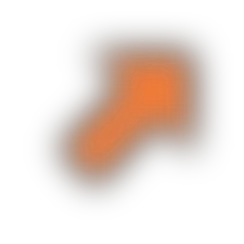
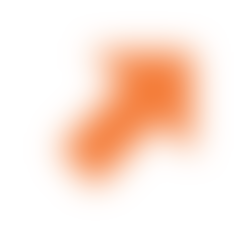
矢印のフチを消す

Changed region(s): [[0.2008, 0.1148, 0.8893, 0.8033]]

diff --git a/index.html b/index.html
@@ -21,8 +21,8 @@
   <link rel="preconnect" href="https://fonts.googleapis.com">
   <link rel="preconnect" href="https://fonts.gstatic.com" crossorigin>
   <link href="https://fonts.googleapis.com/css2?family=Jost:wght@400;500;600&family=Outfit:wght@500;600;700&family=Zen+Kurenaido&family=Shippori+Mincho+B1:wght@600;700;800&family=Zen+Kaku+Gothic+New:wght@400;500;700&display=swap" rel="stylesheet">
-  <link rel="stylesheet" href="tokens.css?v=20261011zzzF">
-  <link rel="stylesheet" href="style.css?v=20261011zzzF">
+  <link rel="stylesheet" href="tokens.css?v=20261011zzzG">
+  <link rel="stylesheet" href="style.css?v=20261011zzzG">
 </head>
 <body>
   <svg width="0" height="0" class="defs" aria-hidden="true">
@@ -34,7 +34,7 @@
   </svg>
 
   <div class="stage">
-    <div class="stage-bokeh" aria-hidden="true"><i class="sbk" style="--pad:5px;left:2%;top:3%;--w:34px;--c:#9cc3ea;--o:0.65;--b:0px;--r:-8deg;--t:15s"><img src="assets/img/ar/ar_34_9cc3ea_0.webp?v=3" alt="" decoding="async"></i><i class="sbk" style="--pad:35px;left:12%;top:8%;--w:56px;--c:#a9d0f3;--o:0.55;--b:11px;--r:-9deg;--t:13s"><img src="assets/img/ar/ar_56_a9d0f3_11.webp?v=3" alt="" decoding="async"></i><i class="sbk" style="--pad:20px;left:20%;top:2%;--w:28px;--c:#a9d0f3;--o:0.35;--b:6px;--r:3deg;--t:9s"><img src="assets/img/ar/ar_28_a9d0f3_6.webp?v=3" alt="" decoding="async"></i><i class="sbk" style="--pad:4px;left:6%;top:15%;--w:28px;--c:#a9d0f3;--o:0.65;--b:0px;--r:8deg;--t:9s"><img src="assets/img/ar/ar_28_a9d0f3_0.webp?v=3" alt="" decoding="async"></i><i class="sbk" style="--pad:20px;left:17%;top:18%;--w:28px;--c:#f47a36;--o:.2;--b:6px;--r:-9deg;--t:10s"><img src="assets/img/ar/ar_28_f47a36_6.webp?v=3" alt="" decoding="async"></i><i class="sbk" style="--pad:20px;left:3%;top:78%;--w:22px;--c:#f47a36;--o:.2;--b:6px;--r:3deg;--t:10s"><img src="assets/img/ar/ar_22_f47a36_6.webp?v=3" alt="" decoding="async"></i><i class="sbk" style="--pad:35px;left:14%;top:83%;--w:56px;--c:#a9d0f3;--o:0.55;--b:11px;--r:-5deg;--t:9s"><img src="assets/img/ar/ar_56_a9d0f3_11.webp?v=3" alt="" decoding="async"></i><i class="sbk" style="--pad:26px;left:21%;top:90%;--w:56px;--c:#f47a36;--o:.2;--b:8px;--r:-7deg;--t:13s"><img src="assets/img/ar/ar_56_f47a36_8.webp?v=3" alt="" decoding="async"></i><i class="sbk" style="--pad:35px;left:7%;top:93%;--w:70px;--c:#a9d0f3;--o:0.35;--b:11px;--r:-4deg;--t:12s"><img src="assets/img/ar/ar_70_a9d0f3_11.webp?v=3" alt="" decoding="async"></i><i class="sbk" style="--pad:26px;left:18%;top:76%;--w:70px;--c:#f47a36;--o:.2;--b:8px;--r:4deg;--t:13s"><img src="assets/img/ar/ar_70_f47a36_8.webp?v=3" alt="" decoding="async"></i><i class="sbk" style="--pad:8px;right:3%;top:4%;--w:44px;--c:#7fb0ee;--o:0.55;--b:2px;--r:-5deg;--t:14s"><img src="assets/img/ar/ar_44_7fb0ee_2.webp?v=3" alt="" decoding="async"></i><i class="sbk" style="--pad:35px;right:13%;top:2%;--w:84px;--c:#9cc3ea;--o:0.35;--b:11px;--r:-1deg;--t:13s"><img src="assets/img/ar/ar_84_9cc3ea_11.webp?v=3" alt="" decoding="async"></i><i class="sbk" style="--pad:14px;right:21%;top:9%;--w:44px;--c:#7fb0ee;--o:0.65;--b:4px;--r:9deg;--t:9s"><img src="assets/img/ar/ar_44_7fb0ee_4.webp?v=3" alt="" decoding="async"></i><i class="sbk" style="--pad:20px;right:8%;top:17%;--w:22px;--c:#f47a36;--o:.2;--b:6px;--r:0deg;--t:10s"><img src="assets/img/ar/ar_22_f47a36_6.webp?v=3" alt="" decoding="async"></i><i class="sbk" style="--pad:6px;right:19%;top:19%;--w:44px;--c:#a9d0f3;--o:0.35;--b:0px;--r:7deg;--t:13s"><img src="assets/img/ar/ar_44_a9d0f3_0.webp?v=3" alt="" decoding="async"></i><i class="sbk" style="--pad:35px;right:4%;top:80%;--w:84px;--c:#7fb0ee;--o:0.55;--b:11px;--r:1deg;--t:13s"><img src="assets/img/ar/ar_84_7fb0ee_11.webp?v=3" alt="" decoding="async"></i><i class="sbk" style="--pad:20px;right:15%;top:77%;--w:44px;--c:#f47a36;--o:.2;--b:6px;--r:-8deg;--t:11s"><img src="assets/img/ar/ar_44_f47a36_6.webp?v=3" alt="" decoding="async"></i><i class="sbk" style="--pad:14px;right:20%;top:88%;--w:44px;--c:#a9d0f3;--o:0.35;--b:4px;--r:10deg;--t:13s"><img src="assets/img/ar/ar_44_a9d0f3_4.webp?v=3" alt="" decoding="async"></i><i class="sbk" style="--pad:35px;right:9%;top:92%;--w:70px;--c:#a9d0f3;--o:0.55;--b:11px;--r:2deg;--t:14s"><img src="assets/img/ar/ar_70_a9d0f3_11.webp?v=3" alt="" decoding="async"></i></div>
+    <div class="stage-bokeh" aria-hidden="true"><i class="sbk" style="--pad:5px;left:2%;top:3%;--w:34px;--c:#9cc3ea;--o:0.65;--b:0px;--r:-8deg;--t:15s"><img src="assets/img/ar/ar_34_9cc3ea_0.webp?v=4" alt="" decoding="async"></i><i class="sbk" style="--pad:35px;left:12%;top:8%;--w:56px;--c:#a9d0f3;--o:0.55;--b:11px;--r:-9deg;--t:13s"><img src="assets/img/ar/ar_56_a9d0f3_11.webp?v=4" alt="" decoding="async"></i><i class="sbk" style="--pad:20px;left:20%;top:2%;--w:28px;--c:#a9d0f3;--o:0.35;--b:6px;--r:3deg;--t:9s"><img src="assets/img/ar/ar_28_a9d0f3_6.webp?v=4" alt="" decoding="async"></i><i class="sbk" style="--pad:4px;left:6%;top:15%;--w:28px;--c:#a9d0f3;--o:0.65;--b:0px;--r:8deg;--t:9s"><img src="assets/img/ar/ar_28_a9d0f3_0.webp?v=4" alt="" decoding="async"></i><i class="sbk" style="--pad:20px;left:17%;top:18%;--w:28px;--c:#f47a36;--o:.2;--b:6px;--r:-9deg;--t:10s"><img src="assets/img/ar/ar_28_f47a36_6.webp?v=4" alt="" decoding="async"></i><i class="sbk" style="--pad:20px;left:3%;top:78%;--w:22px;--c:#f47a36;--o:.2;--b:6px;--r:3deg;--t:10s"><img src="assets/img/ar/ar_22_f47a36_6.webp?v=4" alt="" decoding="async"></i><i class="sbk" style="--pad:35px;left:14%;top:83%;--w:56px;--c:#a9d0f3;--o:0.55;--b:11px;--r:-5deg;--t:9s"><img src="assets/img/ar/ar_56_a9d0f3_11.webp?v=4" alt="" decoding="async"></i><i class="sbk" style="--pad:26px;left:21%;top:90%;--w:56px;--c:#f47a36;--o:.2;--b:8px;--r:-7deg;--t:13s"><img src="assets/img/ar/ar_56_f47a36_8.webp?v=4" alt="" decoding="async"></i><i class="sbk" style="--pad:35px;left:7%;top:93%;--w:70px;--c:#a9d0f3;--o:0.35;--b:11px;--r:-4deg;--t:12s"><img src="assets/img/ar/ar_70_a9d0f3_11.webp?v=4" alt="" decoding="async"></i><i class="sbk" style="--pad:26px;left:18%;top:76%;--w:70px;--c:#f47a36;--o:.2;--b:8px;--r:4deg;--t:13s"><img src="assets/img/ar/ar_70_f47a36_8.webp?v=4" alt="" decoding="async"></i><i class="sbk" style="--pad:8px;right:3%;top:4%;--w:44px;--c:#7fb0ee;--o:0.55;--b:2px;--r:-5deg;--t:14s"><img src="assets/img/ar/ar_44_7fb0ee_2.webp?v=4" alt="" decoding="async"></i><i class="sbk" style="--pad:35px;right:13%;top:2%;--w:84px;--c:#9cc3ea;--o:0.35;--b:11px;--r:-1deg;--t:13s"><img src="assets/img/ar/ar_84_9cc3ea_11.webp?v=4" alt="" decoding="async"></i><i class="sbk" style="--pad:14px;right:21%;top:9%;--w:44px;--c:#7fb0ee;--o:0.65;--b:4px;--r:9deg;--t:9s"><img src="assets/img/ar/ar_44_7fb0ee_4.webp?v=4" alt="" decoding="async"></i><i class="sbk" style="--pad:20px;right:8%;top:17%;--w:22px;--c:#f47a36;--o:.2;--b:6px;--r:0deg;--t:10s"><img src="assets/img/ar/ar_22_f47a36_6.webp?v=4" alt="" decoding="async"></i><i class="sbk" style="--pad:6px;right:19%;top:19%;--w:44px;--c:#a9d0f3;--o:0.35;--b:0px;--r:7deg;--t:13s"><img src="assets/img/ar/ar_44_a9d0f3_0.webp?v=4" alt="" decoding="async"></i><i class="sbk" style="--pad:35px;right:4%;top:80%;--w:84px;--c:#7fb0ee;--o:0.55;--b:11px;--r:1deg;--t:13s"><img src="assets/img/ar/ar_84_7fb0ee_11.webp?v=4" alt="" decoding="async"></i><i class="sbk" style="--pad:20px;right:15%;top:77%;--w:44px;--c:#f47a36;--o:.2;--b:6px;--r:-8deg;--t:11s"><img src="assets/img/ar/ar_44_f47a36_6.webp?v=4" alt="" decoding="async"></i><i class="sbk" style="--pad:14px;right:20%;top:88%;--w:44px;--c:#a9d0f3;--o:0.35;--b:4px;--r:10deg;--t:13s"><img src="assets/img/ar/ar_44_a9d0f3_4.webp?v=4" alt="" decoding="async"></i><i class="sbk" style="--pad:35px;right:9%;top:92%;--w:70px;--c:#a9d0f3;--o:0.55;--b:11px;--r:2deg;--t:14s"><img src="assets/img/ar/ar_70_a9d0f3_11.webp?v=4" alt="" decoding="async"></i></div>
     <aside class="rail rail--left" aria-hidden="true">
       <p class="rail__vert">INSPIRE — RECRUITING SITE</p>
       <div class="rail-logo">
@@ -62,22 +62,22 @@
 
         <section class="page page--hero" id="top" data-tone="dark" data-label="TOP">
           <h1 class="vh">INSPIRE株式会社 児童指導員・児童発達支援管理責任者 採用サイト</h1>
-          <video class="hero__video" src="assets/hero.mp4?v=20261011zzzF" poster="assets/hero-poster.jpg?v=20261011zzzF" autoplay muted loop playsinline></video>
+          <video class="hero__video" src="assets/hero.mp4?v=20261011zzzG" poster="assets/hero-poster.jpg?v=20261011zzzG" autoplay muted loop playsinline></video>
           <p class="hero__swipe" aria-hidden="true"><span>SWIPE UP</span><svg><use href="#ar"/></svg></p>
         </section>
 
         <section class="page page--fv" id="p1" data-delay="250" data-tone="light" data-label="CONCEPT" data-next="共感">
-          <div class="bokeh bokeh--ar" aria-hidden="true"><i class="bka" style="--pad:14px;left:-10px;top:15.8%;--w:64px;--c:#a9d0f3;--o:0.95;--b:4px;--r:-6deg;--t:9s;--d:0ms"><img src="assets/img/ar/ar_64_a9d0f3_4.webp?v=3" alt="" decoding="async"></i><i class="bka" style="--pad:4px;left:150px;top:15%;--w:32px;--c:#7fb0ee;--o:1.00;--b:0px;--r:6deg;--t:8s;--d:70ms"><img src="assets/img/ar/ar_32_7fb0ee_0.webp?v=3" alt="" decoding="async"></i><i class="bka" style="--pad:11px;left:172px;top:21.5%;--w:48px;--c:#a9d0f3;--o:0.85;--b:3px;--r:-4deg;--t:10s;--d:140ms"><img src="assets/img/ar/ar_48_a9d0f3_3.webp?v=3" alt="" decoding="async"></i><i class="bka" style="--pad:17px;right:-34px;top:31%;--w:59px;--c:#a9d0f3;--o:0.90;--b:5px;--r:4deg;--t:11s;--d:45ms"><img src="assets/img/ar/ar_59_a9d0f3_5.webp?v=3" alt="" decoding="async"></i><i class="bka" style="--pad:5px;right:20px;top:49.7%;--w:37px;--c:#7fb0ee;--o:0.95;--b:1px;--r:-6deg;--t:8s;--d:210ms"><img src="assets/img/ar/ar_37_7fb0ee_1.webp?v=3" alt="" decoding="async"></i><i class="bka" style="--pad:20px;right:-10px;top:57.2%;--w:81px;--c:#f47a36;--o:0.55;--b:6px;--r:4deg;--t:12s;--d:110ms"><img src="assets/img/ar/ar_81_f47a36_6.webp?v=3" alt="" decoding="async"></i><i class="bka" style="--pad:4px;right:30px;top:66.3%;--w:27px;--c:#9cc3ea;--o:1.00;--b:0px;--r:8deg;--t:9s;--d:280ms"><img src="assets/img/ar/ar_27_9cc3ea_0.webp?v=3" alt="" decoding="async"></i><i class="bka" style="--pad:17px;right:-14px;top:70.8%;--w:67px;--c:#a9d0f3;--o:0.85;--b:5px;--r:-4deg;--t:10s;--d:180ms"><img src="assets/img/ar/ar_67_a9d0f3_5.webp?v=3" alt="" decoding="async"></i><i class="bka" style="--pad:11px;left:-26px;top:88%;--w:45px;--c:#a9d0f3;--o:0.90;--b:3px;--r:6deg;--t:11s;--d:320ms"><img src="assets/img/ar/ar_45_a9d0f3_3.webp?v=3" alt="" decoding="async"></i><i class="bka" style="--pad:8px;right:92px;top:88.1%;--w:35px;--c:#7fb0ee;--o:0.85;--b:2px;--r:-8deg;--t:9s;--d:250ms"><img src="assets/img/ar/ar_35_7fb0ee_2.webp?v=3" alt="" decoding="async"></i><i class="bka" style="--pad:20px;right:70px;top:86.5%;--w:54px;--c:#f47a36;--o:0.50;--b:6px;--r:4deg;--t:12s;--d:350ms"><img src="assets/img/ar/ar_54_f47a36_6.webp?v=3" alt="" decoding="async"></i></div>
+          <div class="bokeh bokeh--ar" aria-hidden="true"><i class="bka" style="--pad:14px;left:-10px;top:15.8%;--w:64px;--c:#a9d0f3;--o:0.95;--b:4px;--r:-6deg;--t:9s;--d:0ms"><img src="assets/img/ar/ar_64_a9d0f3_4.webp?v=4" alt="" decoding="async"></i><i class="bka" style="--pad:4px;left:150px;top:15%;--w:32px;--c:#7fb0ee;--o:1.00;--b:0px;--r:6deg;--t:8s;--d:70ms"><img src="assets/img/ar/ar_32_7fb0ee_0.webp?v=4" alt="" decoding="async"></i><i class="bka" style="--pad:11px;left:172px;top:21.5%;--w:48px;--c:#a9d0f3;--o:0.85;--b:3px;--r:-4deg;--t:10s;--d:140ms"><img src="assets/img/ar/ar_48_a9d0f3_3.webp?v=4" alt="" decoding="async"></i><i class="bka" style="--pad:17px;right:-34px;top:31%;--w:59px;--c:#a9d0f3;--o:0.90;--b:5px;--r:4deg;--t:11s;--d:45ms"><img src="assets/img/ar/ar_59_a9d0f3_5.webp?v=4" alt="" decoding="async"></i><i class="bka" style="--pad:5px;right:20px;top:49.7%;--w:37px;--c:#7fb0ee;--o:0.95;--b:1px;--r:-6deg;--t:8s;--d:210ms"><img src="assets/img/ar/ar_37_7fb0ee_1.webp?v=4" alt="" decoding="async"></i><i class="bka" style="--pad:20px;right:-10px;top:57.2%;--w:81px;--c:#f47a36;--o:0.55;--b:6px;--r:4deg;--t:12s;--d:110ms"><img src="assets/img/ar/ar_81_f47a36_6.webp?v=4" alt="" decoding="async"></i><i class="bka" style="--pad:4px;right:30px;top:66.3%;--w:27px;--c:#9cc3ea;--o:1.00;--b:0px;--r:8deg;--t:9s;--d:280ms"><img src="assets/img/ar/ar_27_9cc3ea_0.webp?v=4" alt="" decoding="async"></i><i class="bka" style="--pad:17px;right:-14px;top:70.8%;--w:67px;--c:#a9d0f3;--o:0.85;--b:5px;--r:-4deg;--t:10s;--d:180ms"><img src="assets/img/ar/ar_67_a9d0f3_5.webp?v=4" alt="" decoding="async"></i><i class="bka" style="--pad:11px;left:-26px;top:88%;--w:45px;--c:#a9d0f3;--o:0.90;--b:3px;--r:6deg;--t:11s;--d:320ms"><img src="assets/img/ar/ar_45_a9d0f3_3.webp?v=4" alt="" decoding="async"></i><i class="bka" style="--pad:8px;right:92px;top:88.1%;--w:35px;--c:#7fb0ee;--o:0.85;--b:2px;--r:-8deg;--t:9s;--d:250ms"><img src="assets/img/ar/ar_35_7fb0ee_2.webp?v=4" alt="" decoding="async"></i><i class="bka" style="--pad:20px;right:70px;top:86.5%;--w:54px;--c:#f47a36;--o:0.50;--b:6px;--r:4deg;--t:12s;--d:350ms"><img src="assets/img/ar/ar_54_f47a36_6.webp?v=4" alt="" decoding="async"></i></div>
           <svg class="bg-graph rv" viewBox="0 0 400 700" preserveAspectRatio="none" aria-hidden="true"><path class="bg-graph__area" d="M-20 650 C 120 645, 230 610, 300 500 C 350 420, 380 260, 420 40 L420 720 L-20 720Z"/><path class="bg-graph__line" pathLength="1" d="M-20 650 C 120 645, 230 610, 300 500 C 350 420, 380 260, 420 40"/></svg>
           <div class="page__inner">
             <div class="fv__top">
               <p class="page__label fv__big rv" aria-hidden="true"><b style="--i:0">U</b><b style="--i:1">P</b><b style="--i:2">D</b><b style="--i:3">A</b><b style="--i:4">T</b><b style="--i:5" class="fv__e">E<i class="e-ar"></i></b></p>
               <svg class="fv__mark" viewBox="0 0 400 120" preserveAspectRatio="none" aria-hidden="true"><path class="fv__mark-run" d="M4 108 H340 Q372 108 372 76 V20" pathLength="1"/><path class="fv__mark-head" d="M350 40 L372 16 L394 40" pathLength="1"/></svg>
               <figure class="fv__photo rv">
-                <img src="assets/photo/fv-main.webp?v=20261011zzzF" alt="" decoding="async">
+                <img src="assets/photo/fv-main.webp?v=20261011zzzG" alt="" decoding="async">
                 <svg class="fv__outline" aria-hidden="true"><use href="#ar-shape"/></svg>
               </figure>
-              <figure class="fv__photo2 rv"><img src="assets/photo/fv-sub.webp?v=20261011zzzF" alt="" decoding="async"></figure>
+              <figure class="fv__photo2 rv"><img src="assets/photo/fv-sub.webp?v=20261011zzzG" alt="" decoding="async"></figure>
               <p class="page__label fv__en" aria-hidden="true">for the<br>Welfare.</p>
             </div>
             <h2 class="fv__copy"><span class="ln rv">福祉の常識、</span><span class="ln rv"><em class="up rw">アップデート。</em></span></h2>
@@ -92,7 +92,7 @@
           <div class="bokeh" aria-hidden="true"><i class="bk bk--1"><b></b></i><i class="bk bk--2"><b></b></i></div>
           <svg class="bg-graph rv" viewBox="0 0 400 700" preserveAspectRatio="none" aria-hidden="true"><path class="bg-graph__area" d="M-20 650 C 120 645, 230 610, 300 500 C 350 420, 380 260, 420 40 L420 720 L-20 720Z"/><path class="bg-graph__line" pathLength="1" d="M-20 650 C 120 645, 230 610, 300 500 C 350 420, 380 260, 420 40"/></svg>
           <div class="page__inner">
-            <h2 class="ttl"><span class="ln rv">その<em class="q">「仕方ない」</em>、</span><span class="ln rv">誰が決めた？</span><div class="emp-photos rv" aria-hidden="true"><figure class="ep ep--1"><img src="assets/photo/p2-mom.webp?v=20261011zzzF" alt="" decoding="async"></figure><figure class="ep ep--2"><img src="assets/photo/p2-sub.webp?v=20261011zzzF" alt="" decoding="async"></figure></div></h2>
+            <h2 class="ttl"><span class="ln rv">その<em class="q">「仕方ない」</em>、</span><span class="ln rv">誰が決めた？</span><div class="emp-photos rv" aria-hidden="true"><figure class="ep ep--1"><img src="assets/photo/p2-mom.webp?v=20261011zzzG" alt="" decoding="async"></figure><figure class="ep ep--2"><img src="assets/photo/p2-sub.webp?v=20261011zzzG" alt="" decoding="async"></figure></div></h2>
             <div class="emp-mid">
               <ul class="voices">
                 <li class="voice rv"><span class="page__label voice__no" aria-hidden="true">VOICE 01</span><span class="voice__in">「子どもがいるから、仕事はセーブしなきゃ」</span></li>
@@ -111,7 +111,7 @@
           <svg class="bg-graph rv" viewBox="0 0 400 700" preserveAspectRatio="none" aria-hidden="true"><path class="bg-graph__area" d="M-20 650 C 120 645, 230 610, 300 500 C 350 420, 380 260, 420 40 L420 720 L-20 720Z"/><path class="bg-graph__line" pathLength="1" d="M-20 650 C 120 645, 230 610, 300 500 C 350 420, 380 260, 420 40"/></svg>
           <div class="page__inner">
             <div class="vband rv">
-              <figure class="vband__photo"><img src="assets/photo/p3-main.webp?v=20261011zzzF" alt="" decoding="async"></figure>
+              <figure class="vband__photo"><img src="assets/photo/p3-main.webp?v=20261011zzzG" alt="" decoding="async"></figure>
               <p class="page__label vband__en" aria-hidden="true">OUR VISION</p>
             </div>
             <h2 class="ttl"><span class="ln rv">子どもの未来を変えるなら、</span><span class="ln rv"><em class="up">働く大人の未来から。</em></span></h2>
@@ -145,7 +145,7 @@
     </aside>
   </div>
 
-  <script src="script.js?v=20261011zzzF"></script>
-  <script src="ins.js?v=20261011zzzF"></script>
+  <script src="script.js?v=20261011zzzG"></script>
+  <script src="ins.js?v=20261011zzzG"></script>
 </body>
 </html>
